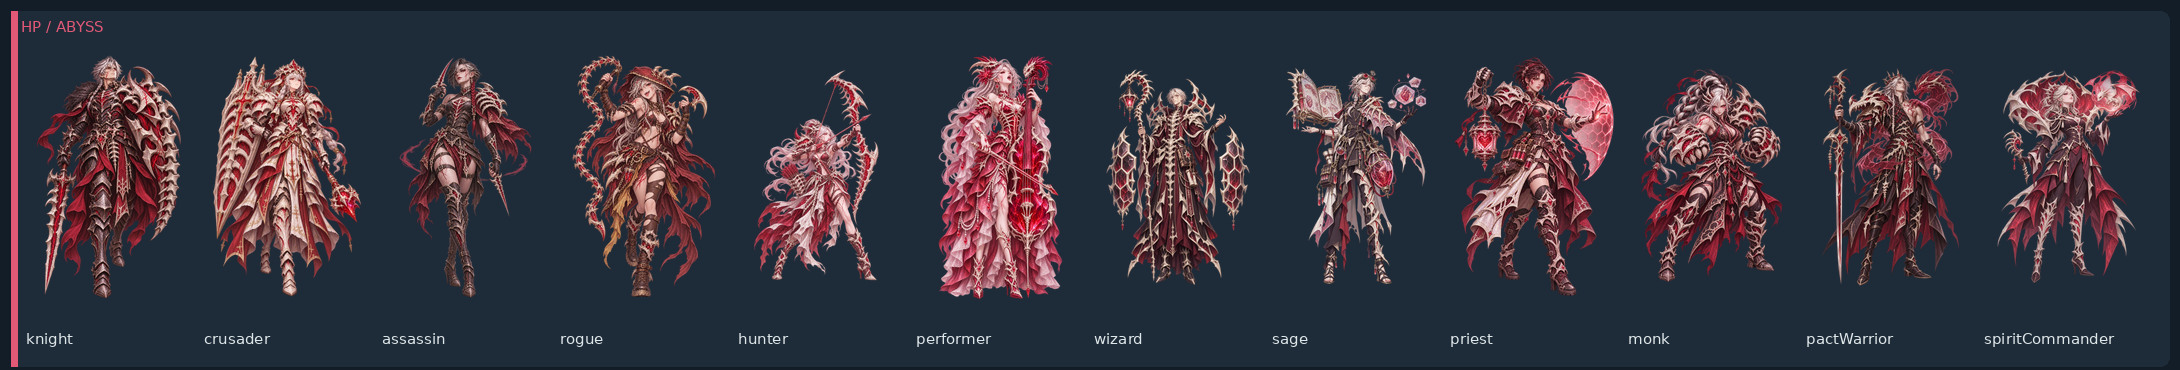
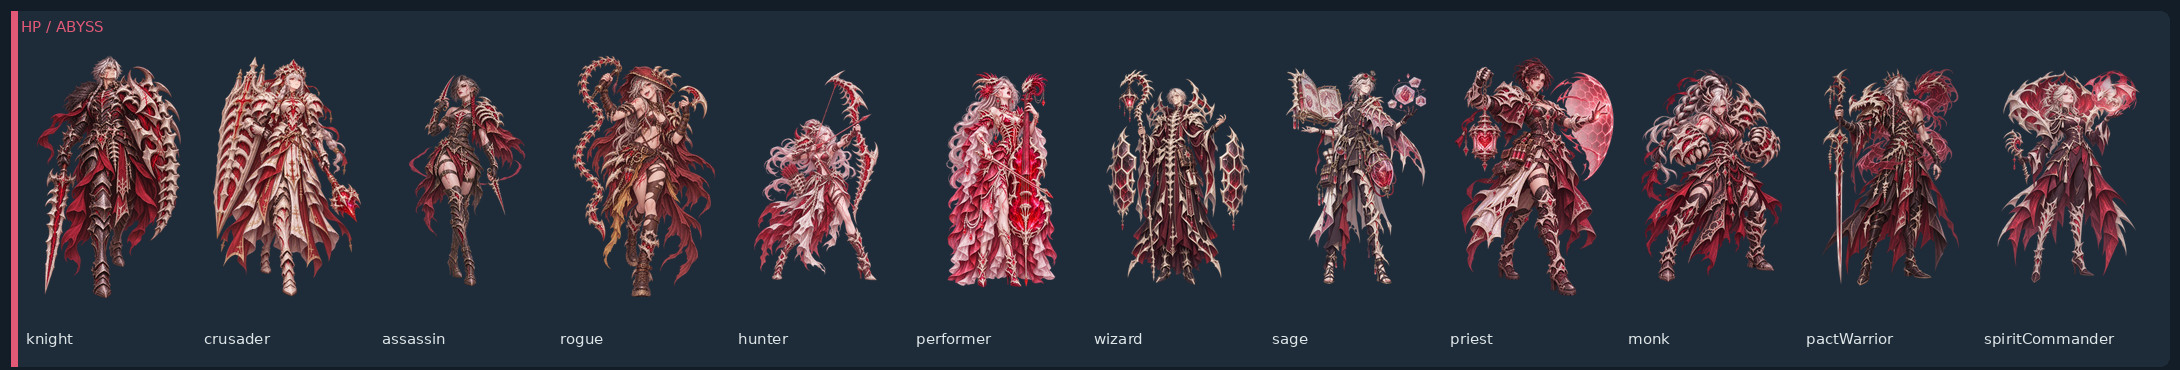
docs: refresh mantle overview after safe margin adjustments

Changed region(s): [[0.4055, 0.1486, 0.4991, 0.8027], [0.1872, 0.1486, 0.2495, 0.8027]]

diff --git a/docs/HANDOFF_EXTREME_MANTLES_V2_2026-11-08.md b/docs/HANDOFF_EXTREME_MANTLES_V2_2026-11-08.md
@@ -483,3 +483,9 @@
 - 以原新繪女性血淵處刑影刃作主參考，保留銀黑短髮紅辮、雙反手紅髓龍牙匕首、骨肩甲與黑紅披肩，只把原近乎滿版的主體收斂成有透明邊框的完整立繪。
 - `dist/assets/extreme/mantles-v2/hp-assassin.webp` 1024×1536 RGBA WebP，alpha≥128 可見邊界約 x=156–880、y=127–1447；底邊留白 89px，接近 6% 的 92px 目標，頭部與兩側均更安全。
 - 單張測試與 GitHub 提交，後續逐步處理其他原來高 alpha 貼邊的戰袍；不合併 main。
+
+## B1–B3 留白修正後總覽同步（2026-11-09）
+
+- 使用 `scripts/art/build-extreme-mantle-sheets.py` 重建完整 48 張縮圖，以及 HP、MATK 分系列短圖；其餘 ATK、CLEAR 短圖未改動。
+- 三張最新 alpha≥128 主體邊界：`hp-performer`=(177,113,866,1456)、`matk-priest`=(89,139,934,1421)、`hp-assassin`=(156,127,880,1447)。其中 MATK 主教已完整達成大約 6% 透明邊框，其餘兩張底部仍略近但已大幅改善。
+- 36/36 極限戰袍與試煉回歸通過。下一步依高 alpha 靠邊程度優先檢查 `hp-priest`、`hp-rogue`、`hp-knight`、`clear-priest` 等；之後才重構低佔比的 MATK 圖。仍不合併 main。
